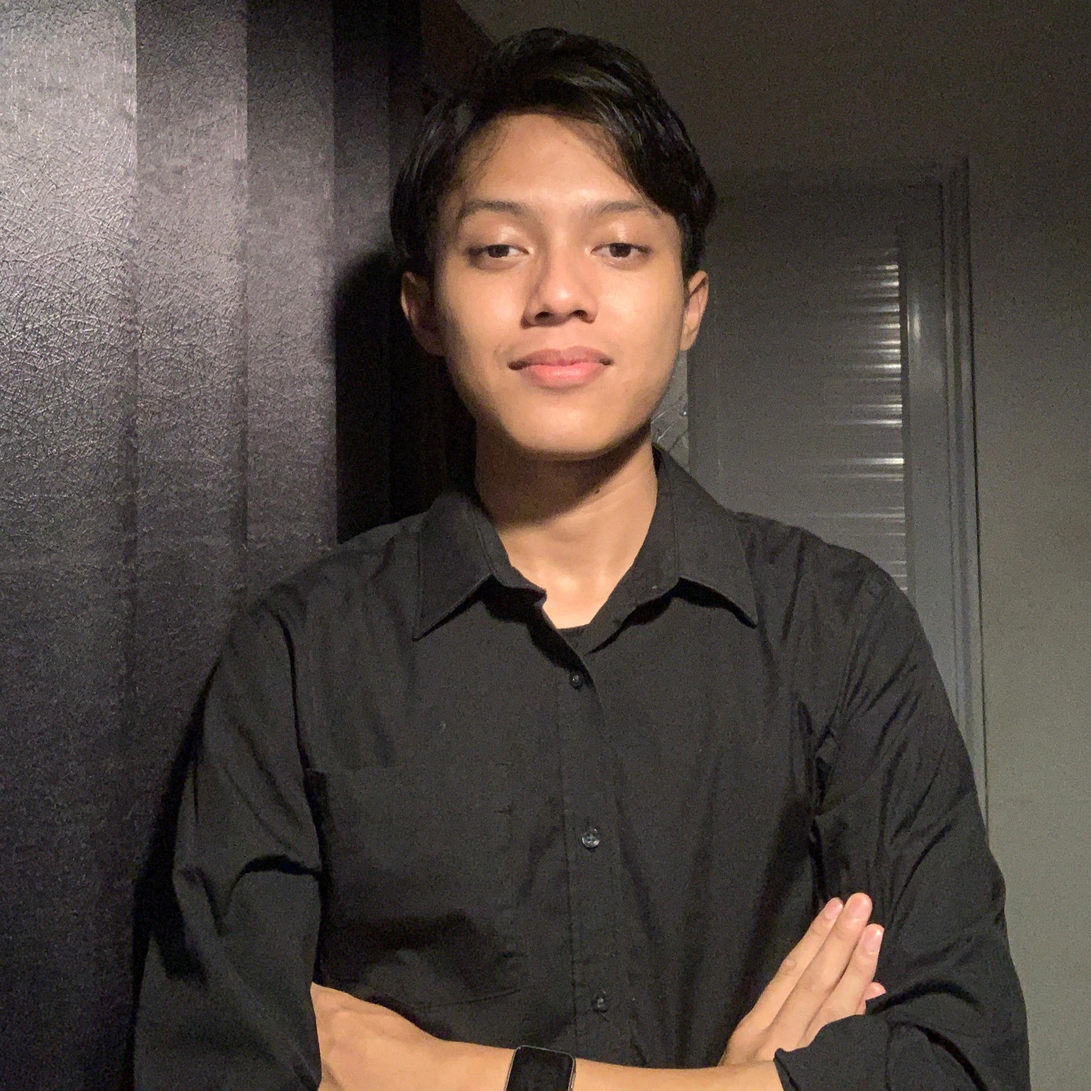
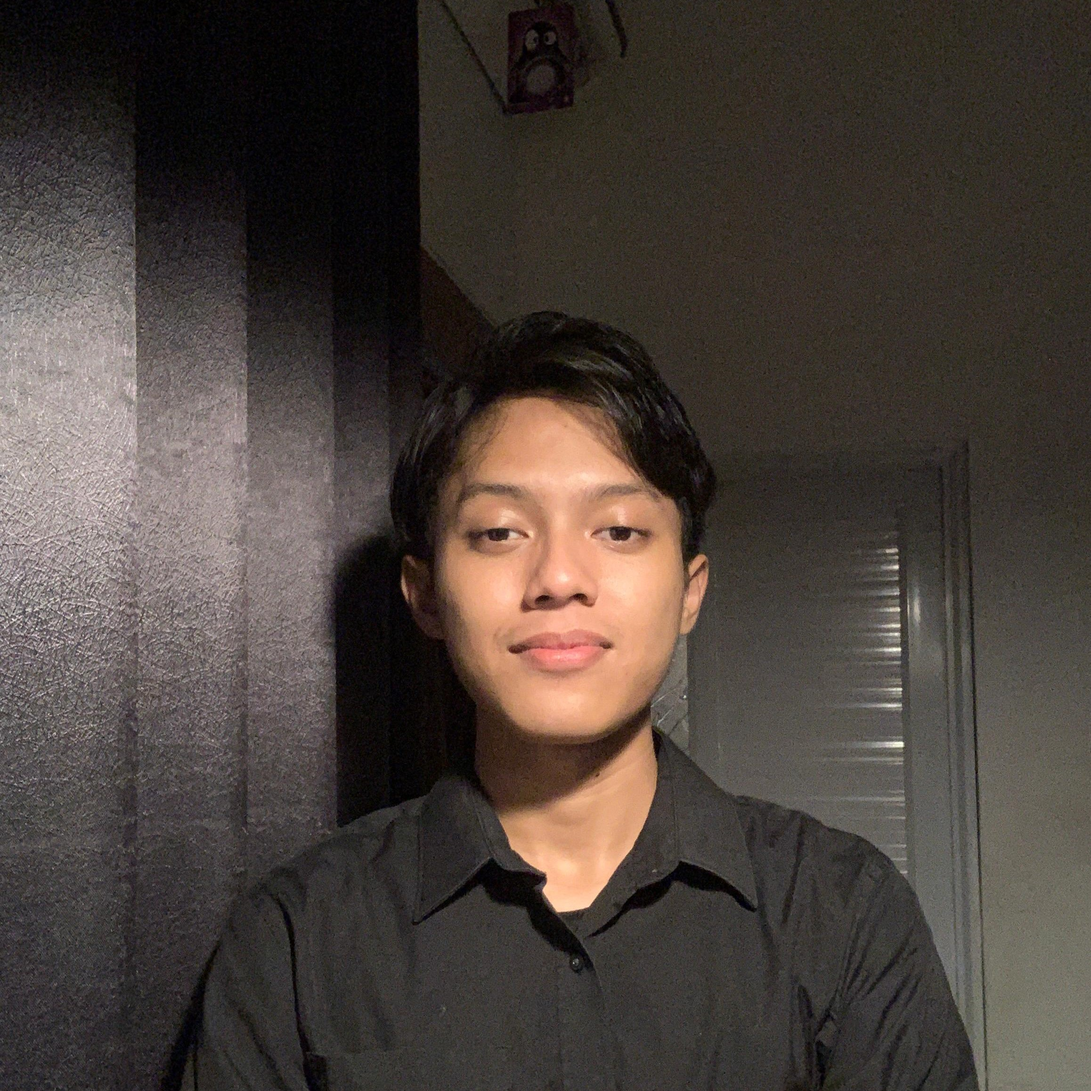
minor UI update 0.1

diff --git a/src/pages/Home.jsx b/src/pages/Home.jsx
@@ -1,78 +1,23 @@
 import React from 'react'
-import { Typewriter } from 'react-simple-typewriter'
 import SkillsCards from '../components/SkillsCards'
 import ProjectsCards from '../components/ProjectsCards'
 import ExperiencesCards from '../components/ExperiencesCards'
 import Contacts from '../components/Contacts'
+import About from '../components/About'
+import Hero from '../components/Hero'
 
-export default function Home({ props }) {
+export default function Home() {
   return (
     <div className='bg-white dark:bg-darkBGSec transition-colors duration-700'>
       {/* Hero Section */}
-      <section
-        id="hero"
-        className="flex flex-col justify-center items-start min-h-screen max-w-5xl mx-auto px-4 space-y-2"
-        >
-        <h1 className="max-w-80 md:max-w-5xl text-4xl md:text-5xl font-bold leading-tight text-gray-900 dark:text-white">
-          <Typewriter
-            words={['console.log("Front-End Developer");']}
-            loop={Infinity}
-            cursor
-            cursorStyle="|"
-            typeSpeed={50}
-            deleteSpeed={30}
-            delaySpeed={2000}
-            />
-        </h1>
-
-        <p className="text-sm md:text-base text-gray-500 dark:text-gray-400">
-          Turning ideas into elegant, functional interfaces.
-        </p>
-
-        <div className="flex items-center gap-2 text-sm md:text-base text-gray-500 dark:text-gray-400">
-          scrollDown(); // more coming up
-          <svg
-            xmlns="http://www.w3.org/2000/svg"
-            viewBox="0 0 24 24"
-            width="1em"
-            height="1em"
-          >
-            <path
-              fill="currentColor"
-              d="M17.29 5.71a.996.996 0 0 0-1.41 0L12 9.58L8.11 5.7A.996.996 0 1 0 6.7 7.11l4.59 4.59c.39.39 1.02.39 1.41 0l4.59-4.59a.984.984 0 0 0 0-1.4"
-            ></path>
-            <path
-              fill="currentColor"
-              d="M17.29 12.3a.996.996 0 0 0-1.41 0L12 16.17l-3.88-3.88a.996.996 0 1 0-1.41 1.41l4.59 4.59c.39.39 1.02.39 1.41 0l4.59-4.59a.993.993 0 0 0-.01-1.4"
-            ></path>
-          </svg>
-        </div>
+      <section id="hero" className="flex flex-col justify-center items-start min-h-screen max-w-5xl mx-auto px-4 space-y-2">
+        <Hero />
       </section>
 
       {/* Abput Section */}
       <section id="about" className="py-20 md:py-24 px-4 max-w-5xl mx-auto">
         <h2 className="text-3xl md:text-5xl font-bold mb-10 text-center md:text-left text-gray-900 dark:text-white">About</h2>
-
-        <div className="flex flex-col md:flex-row items-center gap-10">
-          {/* Foto profil */}
-          <img
-            src="FotoProfile.jpg"
-            alt="Profile"
-            className="w-40 h-40 md:w-56 md:h-56 rounded-full shadow-xl border-2 border-primary"
-            />
-
-          {/* desc */}
-          <p className="text-gray-500 dark:text-gray-400 leading-relaxed text-justify">
-            What's up! I'm Rasyid Muhammad <span className="text-primary font-bold">Agha</span>, 
-            a final year Informatics student at Sebelas Maret University. I’m passionate about crafting 
-            clean UI, responsive interfaces and building app experiences that feel intuitive and engaging.
-            I’ve built stuff for campus projects, Dicoding challenges, and MSIB programs. and I’m always 
-            down to learn something new. <br />
-            It started as a small curiosity, and now I just can’t stop designing and building cool stuff.
-            Every project taught me something new about how people actually use and feel design.
-            Lately, I’ve been exploring Next.js for my upcoming project, fun animations, and cleaner UI vibes.
-          </p>
-        </div>
+        <About />
       </section>
 
       {/* Skills Section */}

diff --git a/src/components/ProjectsCards.jsx b/src/components/ProjectsCards.jsx
@@ -9,24 +9,28 @@ export default function ProjectsCards({ props }) {
     {
       id: 1,
       title: "Local Binary Pattern with Maximum Run Length and colors feature",
+      field: "Machine Learning",
       desc: "Content-Based Image Retrieval (CBIR) system using color Brodatz images. Extracts features from images using LBP, Maximum Run Length, and color features to find the most similar images among 2.800 Brodatz image patches.",
       imgUrls: ["/projectCBIR1.png", "/projectCBIR2.png", "/projectCBIR3.png"],
     },
     {
       id: 2,
       title: "Soillessmart",
+      field: "Software Development",
       desc: "Soillessmart is a Hydroponic Farm education platform made by Mulsa Massive Team that provide many courses about hydroponic farm. Basically, it’s like a bootcamp but we sell a hydroponic courses. To handle the payment gateway, we use Midtrans API to integrate the payment gateway on this website. There are 3 roles in this website, they are users, admin, and teacher. ",
       imgUrls: ["/soillessmart1.png", "/soillessmart2.png", "/soillessmart3.png", "/soillessmart4.png", "/soillessmart5.png"],
     },
     {
       id: 3,
       title: "Learnify",
+      field: "Software Development",
       desc: "A website focused on e-learning, where teachers can create materials, assignments for each material, and exams for each material. All students can complete the assignments and exams provided by the teachers and view their scores immediately.",
       imgUrls: ["/learnify1.png", "/learnify2.png", "/learnify3.png", "/learnify4.png", "/learnify5.png", "/learnify6.png"],
     },
     {
       id: 4,
       title: "Shot Spotter",
+      field: "Software Development",
       desc: "This simple website was created for the project of web programming and software engineering courses in the 4th semester. I purposely created an easy design to save time in implementation. In this project, I contributed to UI/UX design and Front-end Development. My 2 friends contributed to the back-end development using Laravel.",
       imgUrls: ["/shotspotter1.jpg", "/shotspotter2.jpg", "/shotspotter3.jpg", "/shotspotter4.jpg", "/shotspotter5.jpg"],
     },
@@ -43,10 +47,13 @@ export default function ProjectsCards({ props }) {
       {cards.map((card) => (
         <div
           key={card.id}
-          className="shadow-xl border border-gray-300 dark:border-gray-700 rounded-2xl p-4 bg-white dark:bg-gray-800 transform transition-all duration-700 hover:scale-102 hover:shadow-[0_0_20px_rgba(250,45,72,0.6)]"
+          className="shadow-xl border border-gray-300 dark:border-gray-700 rounded-2xl p-4 bg-white dark:bg-gray-800 transform transition-all duration-700 hover:scale-101 hover:shadow-[0_0_20px_rgba(250,45,72,0.6)]"
         >
           <h3 className="font-bold mb-2 dark:text-white min-h-10">{card.title}</h3>
-          <p className="text-gray-500 dark:text-gray-400 mb-4 text-justify min-h-40">{card.desc}</p>
+          <span className="px-3 py-1 text-sm text-gray-400 rounded-full border border-gray-300 dark:border-gray-700">
+            {card.field}
+          </span>
+          <p className="text-gray-500 dark:text-gray-400 my-4 text-justify min-h-40">{card.desc}</p>
 
           <div className="relative">
             {/* Prev Button */}

diff --git a/src/components/Hero.jsx b/src/components/Hero.jsx
@@ -1,0 +1,53 @@
+import React from 'react'
+import { Typewriter } from 'react-simple-typewriter'
+import { ChevronDown } from 'lucide-react'
+
+export default function Hero() {
+  return (
+    <>
+      <h1 className="max-w-80 md:max-w-5xl text-4xl md:text-5xl font-bold leading-tight text-gray-900 dark:text-white">
+        <Typewriter
+          words={['console.log("Front-End Developer");']}
+          loop={Infinity}
+          cursor
+          cursorStyle="|"
+          typeSpeed={50}
+          deleteSpeed={30}
+          delaySpeed={2000}
+          />
+      </h1>
+
+      <p className="text-sm md:text-base text-gray-500 dark:text-gray-400">
+        Turning ideas into elegant, functional interfaces.
+      </p>
+
+      <div className="flex items-center gap-2 text-sm md:text-base text-gray-500 dark:text-gray-400">
+        scrollDown(); // more coming up
+        <ChevronDown size={16}/>
+      </div>
+
+      {/* button hire & download */}
+      <div className="flex gap-4 mt-4">
+        <a
+          href="#contact"
+          className="
+            relative px-5 py-2 rounded-xl bg-primary text-white text-sm md:text-base
+            shadow-md transition-all duration-500
+           hover:shadow-primary/40 hover:shadow-lg
+          "
+        >
+          Hire Me
+        </a>
+        <a
+          target="_blank"
+          href="https://drive.google.com/file/d/1pCBIQMTnvAdkOFra-aNo_NEK3p4oRIVx/view?usp=sharing"
+          className="relative px-5 py-2 rounded-xl text-primary text-sm md:text-base
+                    transition-all duration-500 shadow-[0_0_10px] shadow-primary/40
+                    hover:shadow-[0_0_25px_4px] hover:shadow-primary/70 hover:bg-primary/5"
+        >
+          Download CV
+        </a>
+      </div>
+    </>
+  )
+}

diff --git a/src/components/About.jsx b/src/components/About.jsx
@@ -1,0 +1,26 @@
+import React from 'react'
+
+export default function About() {
+  return (
+    <div className="flex flex-col md:flex-row items-center gap-10">
+      {/* Foto profil */}
+      <img
+        src="FotoProfile.jpg"
+        alt="Profile"
+        className="w-40 h-40 md:w-56 md:h-56 rounded-full shadow-xl border-2 border-primary"
+        />
+
+      {/* desc */}
+      <p className="text-gray-500 dark:text-gray-400 leading-relaxed text-justify">
+        What's up! I'm Rasyid Muhammad <span className="text-primary font-bold">Agha</span>, 
+        a final year Informatics student at Sebelas Maret University. I’m passionate about crafting 
+        clean UI, responsive interfaces and building app experiences that feel intuitive and engaging.
+        I’ve built stuff for campus projects, Dicoding challenges, and MSIB programs. and I’m always 
+        down to learn something new. 
+        It started as a small curiosity, and now I just can’t stop designing and building cool stuff.
+        Every project taught me something new about how people actually use and feel design.
+        Lately, I’ve been exploring Next.js for my upcoming project, fun animations, and cleaner UI vibes.
+      </p>
+  </div>
+  )
+}
